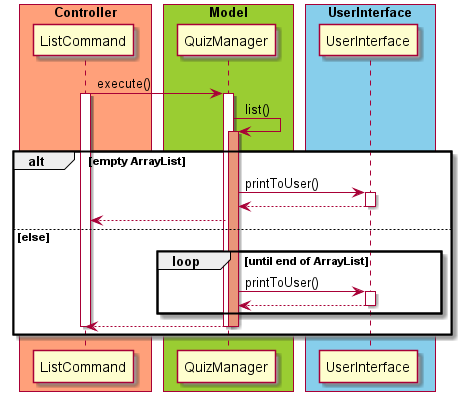
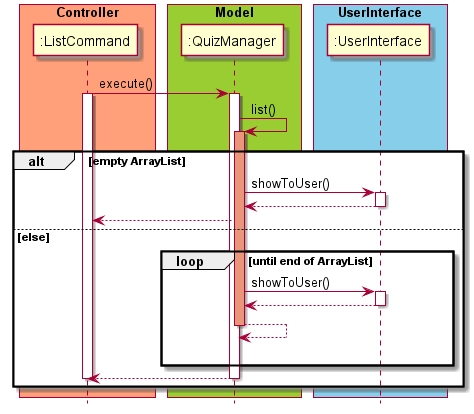
Update developer guide diagram

Changed region(s): [[0.0, 0.0, 1.0, 0.9875], [0.7879, 0.2394, 0.8182, 0.3292]]

diff --git a/src/main/java/seedu/duke/Main.java b/src/main/java/seedu/duke/Main.java
@@ -13,7 +13,7 @@ import seedu.duke.storage.event.EventStorageManager;
 import seedu.duke.ui.ConfigManager;
 import seedu.duke.ui.UserInterface;
 
-public class Duke {
+public class Main {
     public static final String EVENT_FILE_NAME = "/events.txt";
     public static final String QUIZ_FILE_NAME = "/quiz.txt";
     public static final String CONTACT_FILE_NAME = "/contact.txt";
@@ -26,12 +26,12 @@ public class Duke {
     private ConfigManager configManager;
     private Model model;
 
-    private boolean active;
+    private boolean isActive;
 
-    public Duke() throws StorageCorruptedException {
+    public Main() throws StorageCorruptedException {
         userInterface = UserInterface.getInstance();
         initializeStorageManagers();
-        active = true;
+        isActive = true;
         loadModel();
     }
 
@@ -40,7 +40,7 @@ public class Duke {
      */
     public static void main(String[] args) {
         try {
-            new Duke().run();
+            new Main().run();
         } catch (StorageCorruptedException e) {
             userInterface.showToUser(Messages.MESSAGE_STORAGE_CORRUPTED);
         }
@@ -51,8 +51,8 @@ public class Duke {
         configManager.getIntroductoryVariables(configManager.getConfigParameter());
         userInterface.showWelcomeMessage(configManager.getConfigParameter());
 
-        while (active) {
-            active = userInterface.runUI(model, eventStorageManager, quizStorageManager, contactStorageManager);
+        while (isActive) {
+            isActive = userInterface.runUi(model, eventStorageManager, quizStorageManager, contactStorageManager);
         }
 
         // Exit Message

diff --git a/src/main/java/seedu/duke/controller/ControlManager.java b/src/main/java/seedu/duke/controller/ControlManager.java
@@ -1,6 +1,6 @@
 package seedu.duke.controller;
 
-import seedu.duke.Duke;
+import seedu.duke.Main;
 import seedu.duke.common.LogManager;
 import seedu.duke.common.Messages;
 
@@ -170,7 +170,7 @@ public class ControlManager {
      */
     private void refreshContacts() {
         try {
-            contactStorageManager.saveData(model.getContactManager().getContacts(), Duke.CONTACT_FILE_NAME);
+            contactStorageManager.saveData(model.getContactManager().getContacts(), Main.CONTACT_FILE_NAME);
         } catch (IOException e) {
             userInterface.showToUser(Messages.MESSAGE_STORAGE_INITIALIZATION_ERROR);
         }
@@ -196,7 +196,7 @@ public class ControlManager {
         ArrayList<Quiz> quizzes = model.getQuizManager().getQuizList();
 
         try {
-            quizStorageManager.saveData(quizzes, Duke.QUIZ_FILE_NAME);
+            quizStorageManager.saveData(quizzes, Main.QUIZ_FILE_NAME);
         } catch (IOException e) {
             userInterface.showToUser(Messages.MESSAGE_STORAGE_INITIALIZATION_ERROR);
         }

diff --git a/src/main/java/seedu/duke/ui/UserInterface.java b/src/main/java/seedu/duke/ui/UserInterface.java
@@ -94,7 +94,7 @@ public class UserInterface {
      * @param quizStorageManager Updates the storage data in quiz.txt after command is ran.
      * @return A boolean to tell the program to quit or not.
      */
-    public boolean runUI(Model model,
+    public boolean runUi(Model model,
                          EventStorageManager eventStorageManager,
                          QuizStorageManager quizStorageManager,
                          ContactStorageManager contactStorageManager) {
